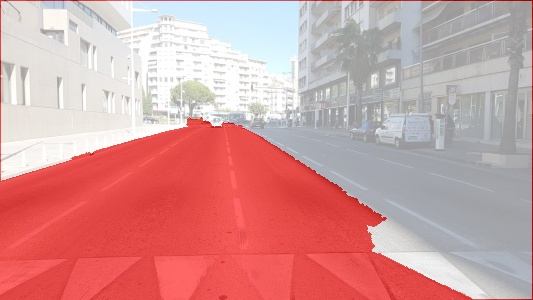
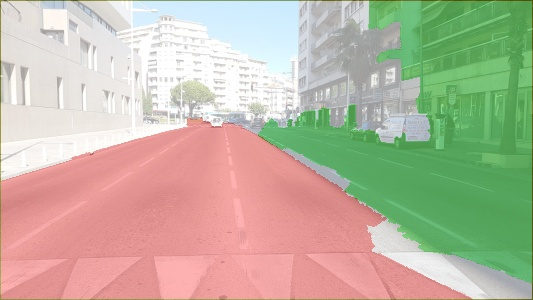
Détection d'un trottoir

diff --git a/hough/watershed.py b/hough/watershed.py
@@ -44,51 +44,75 @@ def legendes():
 
 def watershed():
 
-	img = cv2.imread("../Images_rue/Image9.jpg")
-	mask = cv2.imread("../Images_rue/Image9.jpg")
+	choix_image = "../Images_rue/Image9.jpg"
+	img = cv2.imread(choix_image)
+	mask_route = cv2.imread(choix_image)
+	mask_trottoir = cv2.imread(choix_image)
+	
 	img = imutils.resize(img, height = 300)
-        mask = imutils.resize(mask, height = 300)
+        mask_route = imutils.resize(mask_route, height = 300)
+	mask_trottoir = imutils.resize(mask_trottoir, height = 300)
 
-	gray = cv2.cvtColor(mask, cv2.COLOR_BGR2GRAY)
+	gray_route = cv2.cvtColor(mask_route, cv2.COLOR_BGR2GRAY)
+	gray_trottoir = cv2.cvtColor(mask_trottoir, cv2.COLOR_BGR2GRAY)
 
-	ret, thresh = cv2.threshold(gray,0,255,cv2.THRESH_BINARY_INV+cv2.THRESH_OTSU)
+	ret_route, thresh_route = cv2.threshold(gray_route,0,255,cv2.THRESH_BINARY_INV+cv2.THRESH_OTSU)
+	ret_trottoir, thresh_trottoir = cv2.threshold(gray_trottoir,0,255,cv2.THRESH_BINARY_INV+cv2.THRESH_OTSU)
 
-	thresh = invert_img(thresh)
+	thresh_route = invert_img(thresh_route)
 
 # Suppression du bruit
 	kernel = np.ones((3,3), np.uint8)
-	opening = cv2.morphologyEx(thresh,cv2.MORPH_OPEN,kernel, iterations = 4)
+	opening_route = cv2.morphologyEx(thresh_route,cv2.MORPH_OPEN,kernel, iterations = 4)
+	opening_trottoir = cv2.morphologyEx(thresh_trottoir,cv2.MORPH_OPEN,kernel, iterations = 4)
 
 # Recherche de l'arriere plan
-	sure_bg = cv2.dilate(opening,kernel,iterations=3)
-
+	sure_bg_route = cv2.dilate(opening_route,kernel,iterations=3)
+	sure_bg_trottoir = cv2.dilate(opening_trottoir,kernel,iterations=3)
+	
 # Recherche du plan de devant
-	dist_transform = cv2.distanceTransform(opening, cv2.DIST_L2, 5)
-	ret, sure_fg = cv2.threshold(dist_transform,0.7*dist_transform.max(),255,0)
+	dist_transform_route = cv2.distanceTransform(opening_route, cv2.DIST_L2, 5)
+	ret_route, sure_fg_route = cv2.threshold(dist_transform_route,0.7*dist_transform_route.max(),255,0)
+	dist_transform_trottoir = cv2.distanceTransform(opening_trottoir, cv2.DIST_L2, 5)
+        ret_trottoir, sure_fg_trottoir = cv2.threshold(dist_transform_trottoir,0.7*dist_transform_trottoir.max(),255,0)
 
 # Recherche des regions inconnus
-	sure_fg = np.uint8(sure_fg)
-	unknown = cv2.subtract(sure_bg,sure_fg)
+	sure_fg_route = np.uint8(sure_fg_route)
+	unknown_route = cv2.subtract(sure_bg_route,sure_fg_route)
+	sure_fg_trottoir = np.uint8(sure_fg_trottoir)
+        unknown_trottoir = cv2.subtract(sure_bg_trottoir,sure_fg_trottoir)
 
-	ret, markers = cv2.connectedComponents(sure_fg)
-	markers = markers+1
+	ret_route, markers_route = cv2.connectedComponents(sure_fg_route)
+	markers_route = markers_route+1
+	ret_trottoir, markers_trottoir = cv2.connectedComponents(sure_fg_trottoir)
+        markers_trottoir = markers_trottoir+1
 
 # Les regions inconnus ont une marque a 0
-	markers[unknown==255] = 0
+	markers_route[unknown_route == 255] = 0
+	markers_trottoir[unknown_trottoir == 255] = 0
 
 # Mise en place du watershed
-	markers = cv2.watershed(mask,markers)
-	mask[markers == -1] = [0,0,255]
-	mask[markers == 2] = [0,0,255]
-	mask[markers == 1] = [255,255,255]
+	markers_route = cv2.watershed(mask_route,markers_route)
+	mask_route[markers_route == -1] = [0,0,255]
+	mask_route[markers_route == 2] = [0,0,255]
+	mask_route[markers_route == 1] = [255,255,255]
+	markers_trottoir = cv2.watershed(mask_trottoir,markers_trottoir)
+        mask_trottoir[markers_trottoir == -1] = [0,255,0]
+        mask_trottoir[markers_trottoir == 2] = [0,255,0]
+        mask_trottoir[markers_trottoir == 1] = [255,255,255]
 
-	result = ((0.4 * img) + (0.6 * mask)).astype("uint8")	
+	result_route = ((0.4 * img) + (0.6 * mask_route)).astype("uint8")	
+	result_trottoir = ((0.4 * img) + (0.6 * mask_trottoir)).astype("uint8")
+	result = ((0.5 * result_route) + (0.5 * result_trottoir)).astype("uint8")
 
-	cv2.imwrite('./background.jpg', sure_bg)
-	cv2.imwrite('./foreground.jpg', sure_fg)
-	cv2.imwrite('./threshold.jpg', thresh)
-	cv2.imwrite('./mask.jpg', mask)
+	#cv2.imwrite('./background.jpg', sure_bg)
+	#cv2.imwrite('./foreground.jpg', sure_fg)
+	#cv2.imwrite('./threshold.jpg', thresh)
 	cv2.imwrite('./img.jpg', img)
+	cv2.imwrite('./mask_route.jpg', mask_route)
+	cv2.imwrite('./mask_trottoir.jpg', mask_trottoir)
+	cv2.imwrite('./result_route.jpg', result_route)
+	cv2.imwrite('./result_trottoir.jpg', result_trottoir)
 	cv2.imwrite('./result.jpg', result)
 
 legendes()
